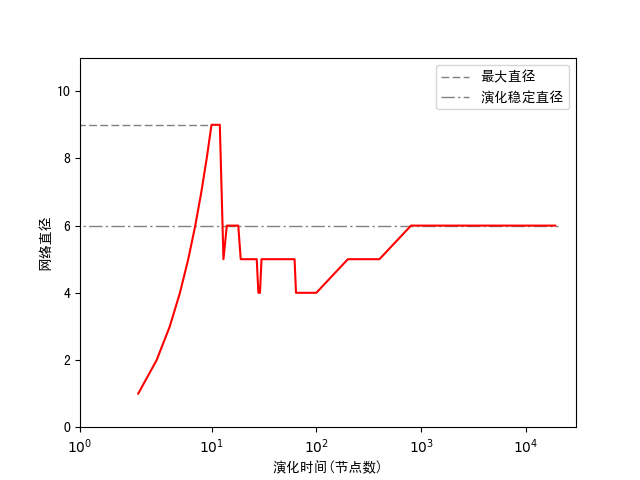
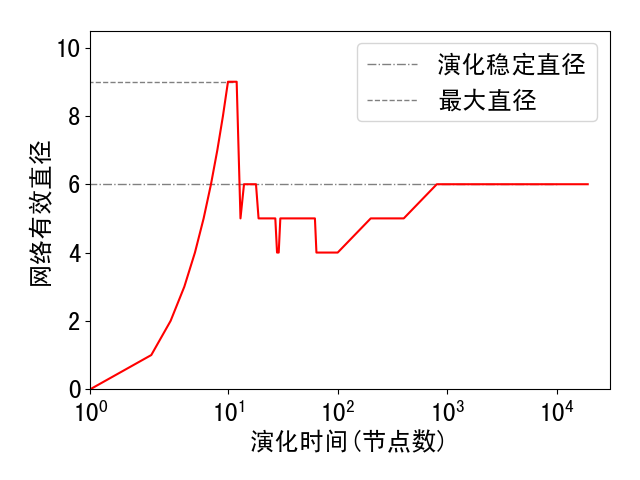
实现了社区进化分析的持久化

diff --git a/Analyser/analyser.py b/Analyser/analyser.py
@@ -48,6 +48,42 @@ def draw_ticks(custom=None, direction='n'):
             plt.yticks([4, 3, 2, 1, 0], ['$10^{-4}$', '$10^{-3}$', '$10^{-2}$', '$10^{-1}$', '$10^0$'])
 
 
+def draw_diameter_curve(save_path):
+    # 聚集系数
+    with open("%s/cc_evo_data.json" % save_path, 'r') as file:
+        cc_dist = json.loads(file.read())['cc']
+        cc_dist = {int(k): float(v) for k, v in cc_dist.items() if float(k) >= 12}
+        cc_dist = np.array(list(cc_dist.items()))
+        plt.plot(cc_dist[:, 0], cc_dist[:, 1], color='b')
+        plt.hlines(0.18, 0, 20000, colors='gray', linestyles='--', linewidths=1, label='演化稳定平均聚集系数')
+        plt.xlim(8, 20000)
+        plt.ylim(0, 0.5)
+        plt.xscale('symlog')
+        plt.legend()
+        plt.xlabel('演化时间(节点数)')
+        plt.ylabel('网络平均聚集系数')
+        plt.gcf().tight_layout()
+        plt.savefig('%s/cc.png' % save_path)
+        plt.show()
+    # 直径
+    with open("%s/evo_data.json" % save_path, 'r') as file:
+        cc_dist = json.loads(file.read())['dia']
+        cc_dist = {int(k): float(v) for k, v in cc_dist.items()}
+        cc_dist = np.array(list(cc_dist.items()))
+        plt.plot(cc_dist[:, 0], cc_dist[:, 1], color='r')
+        plt.hlines(6, 0, 10000, colors='gray', linestyles='-.', linewidths=1, label='演化稳定直径')
+        plt.hlines(9, 0, 11, colors='gray', linestyles='--', linewidths=1, label='最大直径')
+        plt.xlim(1, 30000)
+        plt.ylim(0, 10.5)
+        plt.xscale('symlog')
+        plt.xlabel('演化时间(节点数)')
+        plt.ylabel('网络有效直径')
+        plt.legend()
+        plt.gcf().tight_layout()
+        plt.savefig('%s/diameter.png' % save_path)
+        plt.show()
+
+
 def draw_graph(G: nx.Graph, sample_count=1000, save_path: str = '', width: int = 18, height: int = 9,
                target: str = 's',
                is_hold=True):
@@ -529,6 +565,7 @@ def nme_gini_example_ticks():
     plt.text(1, 1, 'F')
     plt.xticks([0, 1], ['O', 1])
     plt.yticks([1], [1])
+    plt.tight_layout()
     plt.savefig('../data/stable/基尼系数样例.png')
     plt.show()
 
@@ -551,9 +588,11 @@ def draw_community_status(
     # 绘制模块度变化趋势和社区数量变化趋势凸显图线
     cm_cof_dist = np.array(cm_cof)
     plt.subplot(total_rows, 3, cur_row * 3 + 1)
-    plt.plot(np.arange(len(cm_cof_dist)) * step, cm_cof_dist[:, 0])
+    plt.plot(np.arange(len(cm_cof_dist)) * step, cm_cof_dist[:, 0], color='b')
+    plt.hlines(cm_cof_dist[:, 0][-1], 0, 10000, colors='gray', linestyles='--', linewidths=1, )
     plt.ylabel('社区数量')
     # 限制坐标轴的最大社区数量
+    plt.xlim(0, 10100)
     plt.ylim(0, max(cm_cof_dist[:, 0]) + 50)
     plt.subplot(total_rows, 3, cur_row * 3 + 2)
     # 绘制社区分布
@@ -570,7 +609,6 @@ def draw_community_status(
     # 遍历列 对每列的y值进行比例计算
     for col in range(y_list.shape[1]):
         y_list[:, col] /= sum(y_list[:, col])
-    print(x, y_list)
     # 设置堆叠图的bottom
     bottom_sum = np.zeros(len(x))
     # 绘制堆叠柱状图
@@ -583,15 +621,21 @@ def draw_community_status(
             hatch=hatch_list[idx]
         )
         bottom_sum += y_list[idx]
-    plt.xlabel('演化时刻\n' + lbl)
-    plt.ylabel('社区数量分布')
+    plt.xlim(0, 10800)
+    plt.xlabel('演化时刻(节点数)\n' + lbl)
+    plt.ylabel('社区分布')
     plt.legend(loc='lower left', fontsize=14)
     plt.subplot(total_rows, 3, cur_row * 3 + 3)
-    plt.plot(np.arange(len(cm_cof_dist)) * step, cm_cof_dist[:, 1])
+    plt.plot(np.arange(len(cm_cof_dist)) * step, cm_cof_dist[:, 1], color='r')
+    plt.hlines(cm_cof_dist[:, 1][-1], 0, 10000, colors='gray', linestyles='--', linewidths=1, )
+    plt.xlim(0, 10100)
     plt.ylim(0, 1)
     plt.ylabel('模块度')
     if not is_hold:
         plt.show()
+    print(lbl, cm_cof_dist[:, 0][-1], cm_cof_dist[:, 1][-1])
+    for v in y_list[:, -1]:
+        print(v)
 
 
 def analyse_community_evolution(
@@ -787,4 +831,8 @@ if __name__ == '__main__':
     # path = '../data/20180128_172813_n6000_e27482_excellnt_不根据_20'
     # path = '../data/20180510_220335_n10000_e28688_dta5_600'
     # path = '../data/20180510_220335_n10000_e28688_dta5_600'
-    NME(types=[5], isHold=False, path=path)
+    # path = '../data/20180130_204852_n20000_e74456_初始不连通d10k10'
+    # NME(types=[5], isHold=False, path=path)
+    # draw_diameter_curve(save_path=path)
+    analyse_gini_coefficient(load_from_csv(path), save_path=path, lbl='度值', hold=True)
+    nme_gini_example_ticks()

diff --git a/benchmark.py b/benchmark.py
@@ -470,7 +470,7 @@ def degree_in_out_layout():
 
 
 @utils.destroy
-def evolution_community_analyse():
+def evolution_community_analyse(generate=False):
     """
     分析社区演化趋势
     :return:
@@ -505,7 +505,7 @@ def evolution_community_analyse():
     del gplus
     gc.collect()
     # 标签列表
-    lbl_list = ['BA模型', 'ER模型', 'WS模型', 'NME模型', 'Twitter', 'Google+']
+    lbl_list = ['Eedos-Renyi模型', 'Watts Strogatz模型', 'Barabási-Albert模型', 'NME模型', 'Twitter', 'Google+']
     title = '不同数据集社区演化趋势'
 
     # 使用多进程进行计算
@@ -514,8 +514,6 @@ def evolution_community_analyse():
     common_segment_range = (0, 3, 5, 10, 100, 500)
     common_step = 500
     cm_status_list = []
-    # 设置图像大小
-    plt.gcf().set_size_inches(6.4 * 3, 4 * len(graph_list))
     for idx, G in enumerate(graph_list):
         # 将结果加入
         cm_status_list.append(
@@ -534,6 +532,8 @@ def evolution_community_analyse():
         file.write(
             json.dumps([rst.get() for rst in cm_status_list])
         )
+    # 设置图像大小
+    plt.gcf().set_size_inches(6.4 * 3, 4 * len(graph_list))
     # 获取多线程执行结果并绘图
     for idx, cm_status in enumerate(cm_status_list):
         # 对于每一个的计算结果 绘制相应行的图像
@@ -553,6 +553,47 @@ def evolution_community_analyse():
     plt.gcf().tight_layout()
     plt.savefig('./data/stable/%s.png' % title)
     # plt.show()
+
+
+def evolution_community_analyse_from_exist_data():
+    common_segment_range = (0, 3, 5, 10, 100, 500)
+    common_step = 500
+    info_list = [{
+        'lbl_list': [r'$N_0=%d,\epsilon=%d$' % (n, e) for n in [200, 600] for e in [3, 5, 7]],
+        'title': '不同参数社区演化趋势'
+    }, {
+        'lbl_list': ['Eedos-Renyi模型', 'Watts Strogatz模型', 'Barabási-Albert模型', 'NME模型', 'Twitter', 'Google+'],
+        'title': '不同数据集社区演化趋势'
+    }
+
+    ]
+    for info in info_list:
+        title = info['title']
+        lbl_list = info['lbl_list']
+        with open('./data/stable/community_%s.json' % title, 'r') as file:
+            cm_status_list = []
+            cm_status_list = json.loads(file.read())
+            # 设置图像大小
+            plt.gcf().set_size_inches(6.4 * 3, 4 * len(lbl_list))
+            # 获取多线程执行结果并绘图
+            for idx, cm_status in enumerate(cm_status_list):
+                # 对于每一个的计算结果 绘制相应行的图像
+                cm_status = json.loads(cm_status)
+                # 绘图
+                analyser.draw_community_status(
+                    cm_cof=cm_status['cof'],
+                    # 因为这里使用了jsonencode keys都变成字符串了 所以要转型
+                    cm_size_dist={int(k): v for k, v in cm_status['size_dist'].items()},
+                    segment_range=common_segment_range,
+                    total_rows=len(lbl_list),
+                    cur_row=idx,
+                    step=common_step,
+                    is_hold=True,
+                    lbl='(%d) %s' % (idx + 1, lbl_list[idx])
+                )
+            plt.gcf().tight_layout()
+            plt.savefig('./data/stable/%s.png' % title)
+            plt.show()
 
 
 if __name__ == '__main__':
@@ -585,4 +626,6 @@ if __name__ == '__main__':
     '''分析出度入度分布'''
     # degree_in_out_layout()
     '''分析社区演化趋势'''
-    evolution_community_analyse()
+    # evolution_community_analyse()
+    '''分析社区演化趋势 从已有数据集中'''
+    evolution_community_analyse_from_exist_data()
